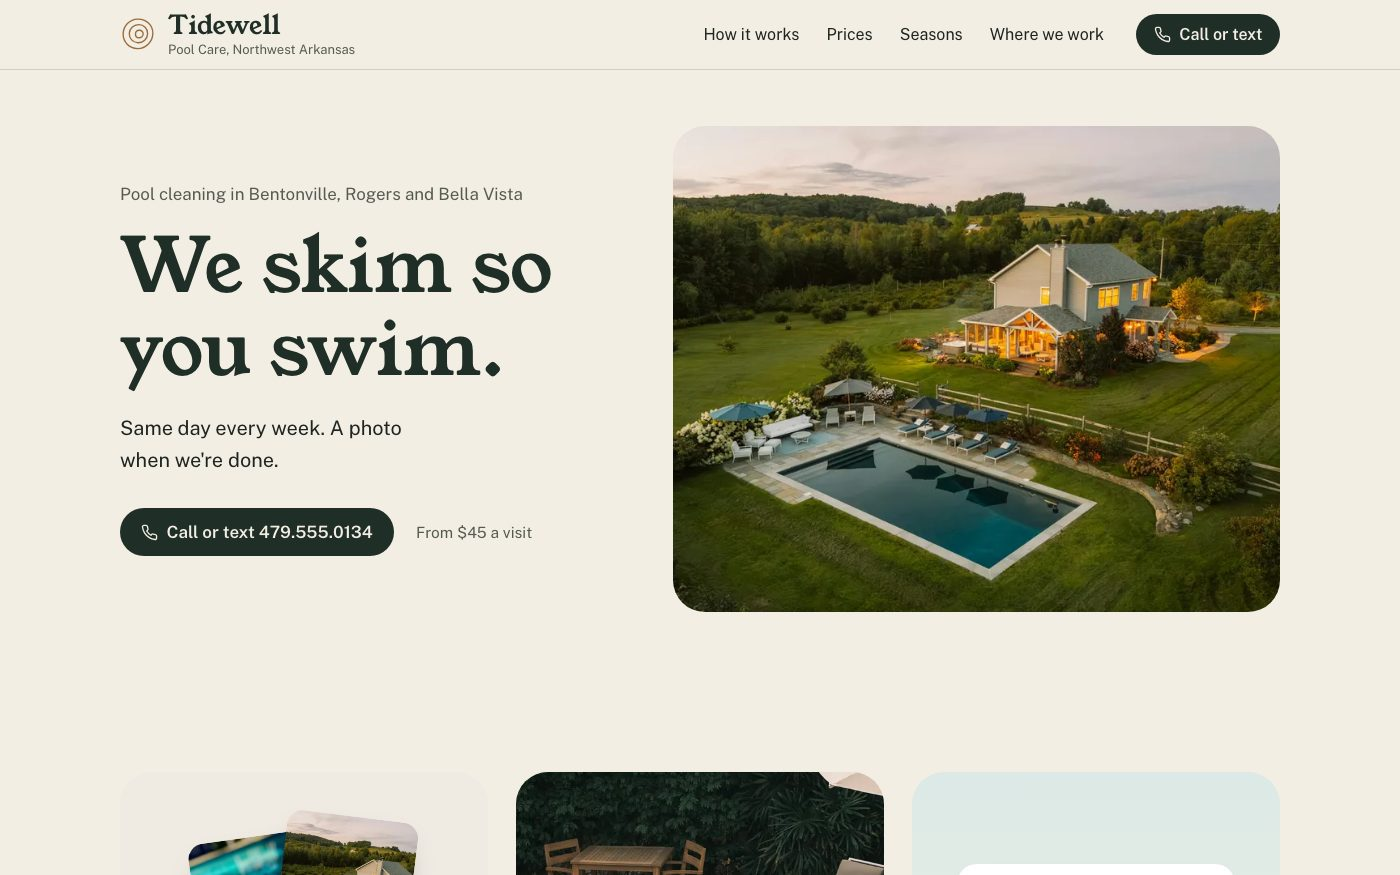
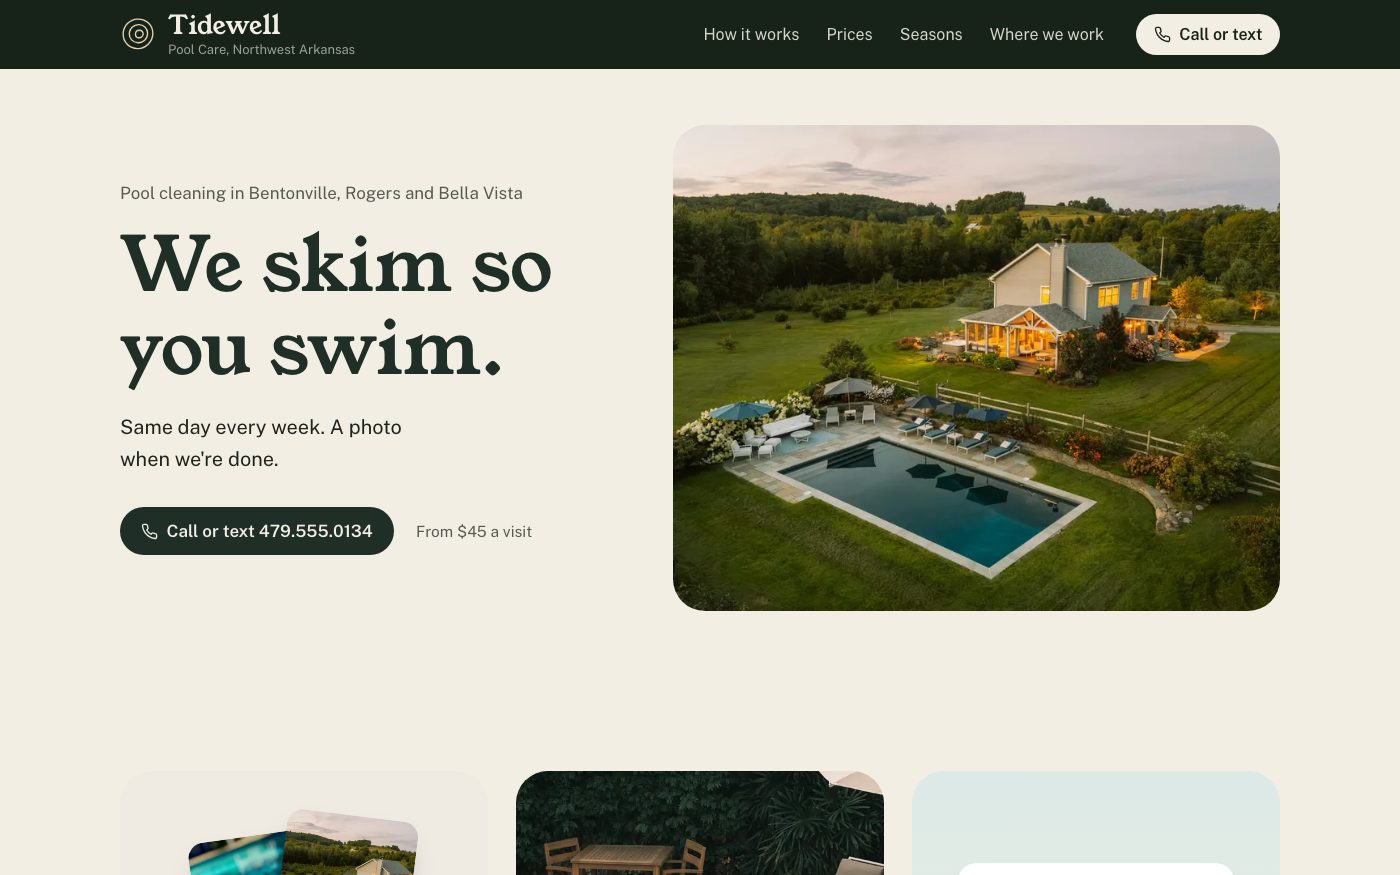
Tidewell demo: dark green header matching the footer, service area map removed; refresh thumbnail and preview version

diff --git a/demo/tidewell/index.html b/demo/tidewell/index.html
@@ -9,7 +9,7 @@
 <meta property="og:title" content="Tidewell Pool Care | Pool cleaning in Northwest Arkansas">
 <meta property="og:description" content="Pool cleaning in Bentonville, Rogers and Bella Vista, AR. A photo and a chemistry report after every visit. Call or text 479.555.0134.">
 <meta property="og:type" content="website">
-<meta name="theme-color" content="#1F2E26">
+<meta name="theme-color" content="#172219">
 <link rel="icon" type="image/svg+xml" href="favicon.svg">
 <link rel="preload" as="image" href="img/hero-farmhouse-pool-1400.webp" imagesrcset="img/hero-farmhouse-pool-900.webp 900w, img/hero-farmhouse-pool-1400.webp 1400w, img/hero-farmhouse-pool-2400.webp 2400w" imagesizes="(max-width:1000px) 100vw, 56vw">
 <style>
@@ -337,6 +337,24 @@ footer{background:#172219; color:rgba(243,238,228,.7); padding:2.4rem 0; font-si
 /* carousel: loop so there is always a card either side */
 .season-track{padding-inline:calc(50% - 230px)}
 
+
+/* dark green header, matching the footer */
+header{background:#172219; border-bottom:0}
+.brand b{color:#F3EEE4}
+.brand-sub{color:rgba(243,238,228,.62)}
+.brand-logo{color:#E6D2AE}
+nav.main a{color:rgba(243,238,228,.88)}
+nav.main a:hover{color:#fff; text-decoration-color:#E6D2AE}
+.bar .btn{background:#F3EEE4; color:#172219}
+.bar .btn:hover{background:#fff}
+.navtoggle{border-color:rgba(243,238,228,.28)}
+.navtoggle span{background:#F3EEE4}
+.mobile-nav{border-top-color:rgba(243,238,228,.14)}
+.mobile-nav a{color:#F3EEE4; border-bottom-color:rgba(243,238,228,.14)}
+.mobile-nav a.btn{background:#F3EEE4; color:#172219}
+/* where we work: text only, centred */
+.area-grid{grid-template-columns:minmax(0,1fr); text-align:center; max-width:760px}
+.area .towns-line{margin-inline:auto}
 </style>
 </head>
 <body>
@@ -482,36 +500,6 @@ footer{background:#172219; color:rgba(243,238,228,.7); padding:2.4rem 0; font-si
 <!-- ============ AREA ============ -->
 <section class="area" id="area">
   <div class="wrap area-grid">
-    <div class="map">
-      <svg viewBox="0 0 600 520" role="img" aria-labelledby="mapTitle">
-        <title id="mapTitle">Map of the Tidewell service area in Benton County, Arkansas, from Bella Vista south to Lowell, with Beaver Lake to the east</title>
-        <path d="M112,30 C170,18 300,22 352,40 C382,60 384,150 372,205 C362,262 348,300 300,306 C250,312 195,300 160,284 C122,262 98,210 96,150 C94,96 90,44 112,30 Z" fill="#1F2E26" fill-opacity=".08" stroke="#1F2E26" stroke-opacity=".35" stroke-width="1.5" stroke-dasharray="2 5" stroke-linecap="round"/>
-        <line x1="0" y1="21" x2="600" y2="21" stroke="#565B51" stroke-width="1.2" stroke-dasharray="8 6"/>
-        <text class="state" x="596" y="14" text-anchor="end" font-size="12" fill="#565B51" letter-spacing="1.5">MISSOURI</text>
-        <text class="state" x="596" y="40" text-anchor="end" font-size="12" fill="#565B51" letter-spacing="1.5">ARKANSAS</text>
-        <path d="M586,96 C560,112 536,140 516,156 C498,172 484,188 474,198 C458,212 432,220 421,229 C410,240 432,262 442,291 C448,312 416,328 411,343 C406,360 440,380 463,406 C472,418 480,430 486,444" fill="none" stroke="#9DBCC2" stroke-width="13" stroke-linecap="round" stroke-linejoin="round"/>
-        <path d="M474,198 C486,214 500,222 520,226 M442,291 C462,296 478,286 494,292 M421,229 C404,218 392,214 380,216" fill="none" stroke="#9DBCC2" stroke-width="7" stroke-linecap="round"/>
-        <text x="462" y="262" font-size="14" fill="#2D5E6A" font-style="italic">Beaver Lake</text>
-        <path d="M147,21 C170,50 196,76 211,94 C226,114 236,138 242,156 C252,180 264,200 274,218 C284,238 294,262 295,281 C296,302 280,322 274,343 C268,366 263,392 263,416 C263,450 263,480 263,520" fill="none" stroke="#565B51" stroke-width="2.5"/>
-        <g transform="translate(248,108)"><rect x="-19" y="-11" width="38" height="22" rx="5" fill="#FBF8F2" stroke="#565B51" stroke-width="1.5"/><text class="shield" x="0" y="5" text-anchor="middle" font-size="12" font-weight="600" fill="#1E241F" stroke-width="0">I-49</text></g>
-        <g fill="#1F2E26">
-          <circle cx="158" cy="42" r="5.5"/><circle cx="316" cy="73" r="5.5"/><circle cx="221" cy="156" r="5.5"/>
-          <circle cx="137" cy="166" r="5.5"/><circle cx="316" cy="198" r="5.5"/><circle cx="200" cy="270" r="5.5"/><circle cx="305" cy="281" r="5.5"/>
-        </g>
-        <g font-size="15" fill="#1E241F">
-          <text x="168" y="47">Bella Vista</text>
-          <text x="326" y="78">Pea Ridge</text>
-          <text x="211" y="146" text-anchor="end" font-weight="600">Bentonville</text>
-          <text x="127" y="185" text-anchor="middle">Centerton</text>
-          <text x="326" y="203" font-weight="600">Rogers</text>
-          <text x="190" y="275" text-anchor="end">Cave Springs</text>
-          <text x="315" y="286">Lowell</text>
-        </g>
-        <g fill="#FBF8F2" stroke="#565B51" stroke-width="1.8"><circle cx="305" cy="343" r="5"/><circle cx="274" cy="478" r="5"/></g>
-        <g font-size="15" fill="#565B51"><text x="315" y="348">Springdale</text><text x="284" y="483">Fayetteville</text></g>
-        <text x="8" y="512" font-size="12" fill="#565B51" letter-spacing=".5">Not to scale</text>
-      </svg>
-    </div>
     <div>
       <h2>Where we work</h2>
       <p class="towns-line">Bella&nbsp;Vista · Bentonville · Rogers · Centerton · Pea&nbsp;Ridge · Cave&nbsp;Springs · Lowell</p>

diff --git a/index.html b/index.html
@@ -152,13 +152,13 @@
     <div class="client-feature">
       <!-- Preview: a still of the site (no iframe, nothing to load or scroll
            by accident). "Try it live" opens the real site full-screen. -->
-      <figure class="site-preview" data-src="demo/tidewell/?v=15"
+      <figure class="site-preview" data-src="demo/tidewell/?v=16"
               data-name="Tidewell Pool Care">
         <div class="sp-chrome" aria-hidden="true">
           <span class="sp-dot"></span><span class="sp-dot"></span><span class="sp-dot"></span>
         </div>
         <div class="sp-stage">
-          <img class="sp-shot" src="images/demo-tidewell-desktop.jpg?v=15" alt="Tidewell Pool Care website home page" width="1400" height="875" loading="lazy" decoding="async">
+          <img class="sp-shot" src="images/demo-tidewell-desktop.jpg?v=16" alt="Tidewell Pool Care website home page" width="1400" height="875" loading="lazy" decoding="async">
           <button type="button" class="sp-open" aria-label="Explore the Tidewell website live"></button>
         </div>
       </figure>
